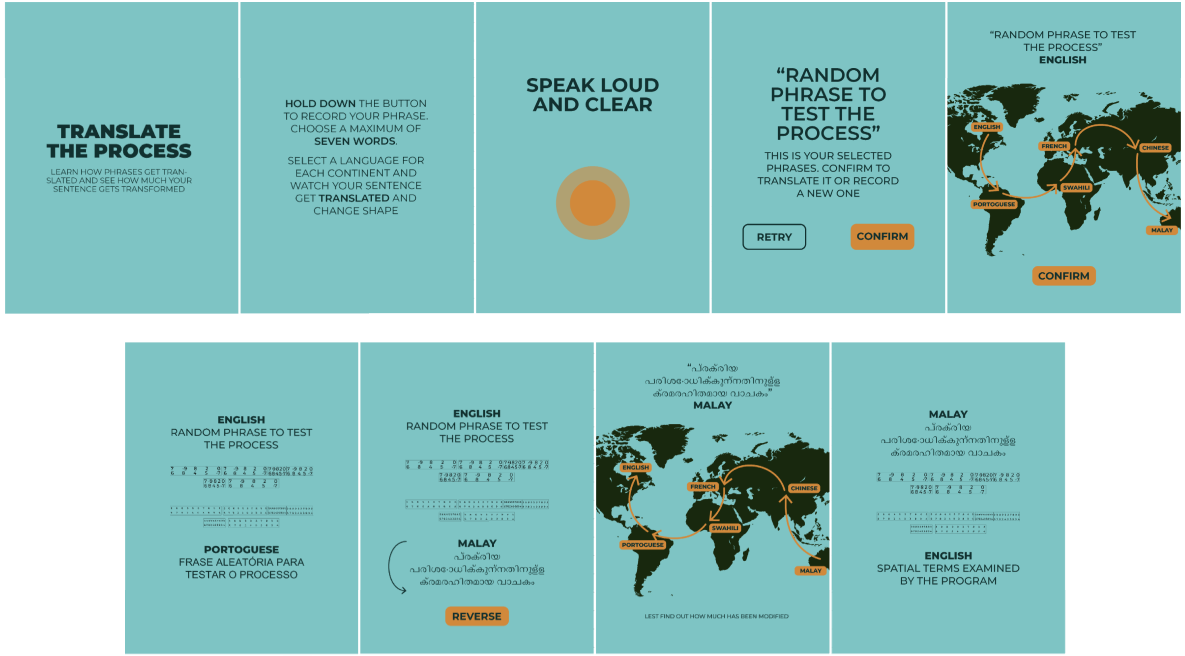
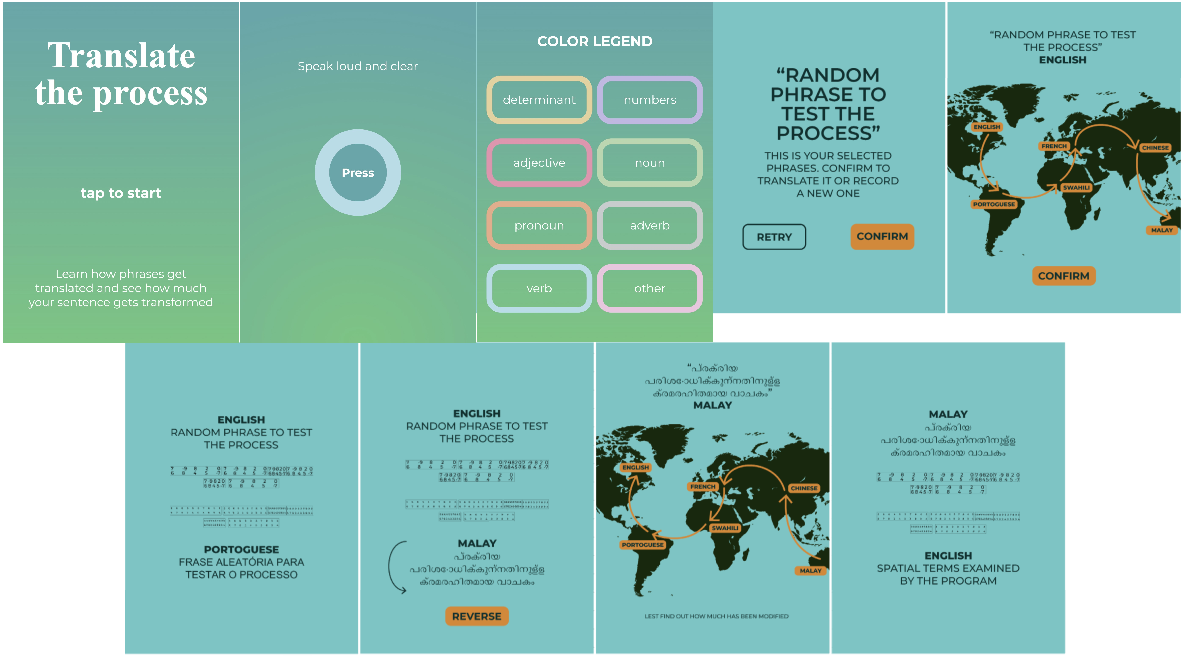
sistemato

diff --git a/README.md b/README.md
@@ -49,6 +49,7 @@ The device will need to have touch functionalities and a microphone of course, b
 
 # STRUCTURE
 
+![scheme](./assets/readme/Scheme.png)
 ![scheme](./assets/readme/struttura.png)
 
 Here is a scheme of the project and its concept rendition.
@@ -146,15 +147,291 @@ This is how the two libraries work together
 
 **ANIMATIONS**
 
-To show the transformation of the original phrase into a vector, we applied a simple sliding animation, using some rectangles with rounded angles
+For the world map animations we needed to keep track of the various selected languages and the order of the continents
 
 ```JavaScript
+
+//This next array will contain all the languages (in order) written in a way that the Translation API can interpret
+
+
+let langs = ["en", "en", "en", "en", "en"],
+  shownTranslations = 1;
+
+//Arrays containing every continent's selection menu coordinates (x and y), a boolean parameter to keep track of the
+//lines already drawn and an int that will be used for the order
+
+
+let csels = [75, 450, false];
+let cselsa = [150, 625, false];
+let cseleu = [325, 425, false];
+let cselaf = [375, 600, false];
+let cselas = [575, 475, false];
+
+//Array that will keep track of the order in which the continents are visited
+
+
+let route = ["sels"];
+
+//Dictionary to keep track of the specific languages for every step of the route
+
+let places = {
+  0: "English",
+  1: "English",
+  2: "English",
+  3: "English",
+  4: "English",
+};
+
+//Dictionary to keep track of the specific languages for every step of the route
+
+let current = [csels[0], csels[1]];
+let next = [csels[0], csels[1]];
+
+//Counter that will be needed to allocate every continent into their spot in the places dictionary
+
+let order = 0;
+
+var languageSketch = function (sketch) {
+  let map;
+
+  sketch.preload = function () {
+//Preloading of the background image
+
+    map = sketch.loadImage("assets/map.png");
+  };
+
+//Creating the select menu for North America (starting point, always English)
+
+
+let sels = sketch.createSelect();
+    sels.parent("map");
+    sels.position(csels[0], csels[1]);
+    sels.option("English");
+
+//Creating the select menu for South America
+
+    let selsa = sketch.createSelect();
+    selsa.parent("map");
+    selsa.position(cselsa[0], cselsa[1]);
+    selsa.option("---"); //The options get added
+    selsa.option("Spanish");
+    selsa.option("Portuguese");
+    selsa.option("French");
+    selsa.option("Dutch");
+    selsa.selected("---"); //The menu will display by default the null option
+
+    selsa.changed(function () { //When the null option gets modified into any of the other options this happens
+      next = [cselsa[0], cselsa[1]]; //The continent gets identified as the final point of the line
+
+      if (cselsa[2] == false) { //If the line hasn't already been drawn this happens
+
+        cselsa[2] = true; //This prevents the line from being drawn again towards this continent in the future
+
+        sketch.append(route, "selsa"); //The continent gets added as the next step in our route
+
+        cselsa[3] = order + 1; //The fouth element of the coordinates array is changed to the spot this continent has in the order of the route (+1 since english is always the first step)
+
+        places[order + 1] = selsa.value(); //The dictionary that keeps track of the language at every step of the route is updated with the one selected
+
+        sketch.mySelect(); //The line gets drawn by the mySelect function (it is separated from the arrow function for debugging purposes)
+
+      } else if (csels[2] == false) { //If the line has already been drawn this happens
+
+        places[cselsa[3]] = selsa.value(); //The dictionary is updated, without relying on the order counter, that could be already at 4
+
+      }
+
+      selsa.disable("---"); //The null option gets disabled to not cause confusion
+
+    });
+
+//Creating the select menu for Europe, Africa and Asia (seleu, selaf and selas) and of course the process is the same for every one of them
+
+    [...]
+
+//Creating the button used to confirm
+
+
+    button = sketch.createButton("Start");
+    button.id("start");
+    button.parent("map");
+    button.position(sketch.width / 2 - button.width / 2, sketch.height - 250);
+    button.mousePressed(function () { //When pressed this happens
+
+      if (order >= 4 && csels[2] == false) { //If the order reached its last number and the final line hasn't been drawn yet
+
+        csels[2] = true; //We make sure the final line doesn't get drawn again
+
+        nextFrame(); //We advance to the next screen
+
+        sketch.confirm(); //The confirm function executes the final part of this section and sets up the second map segment
+      }
+
+//During the last part we hide all the menus but the first and the last
+
+      if (csels[2] == true) {
+        if (route[1] == "selsa" || route[2] == "selsa" || route[3] == "selsa") {
+          selsa.hide();
+        }
+
+        if (route[1] == "seleu" || route[2] == "seleu" || route[3] == "seleu") {
+          seleu.hide();
+        }
+
+        if (route[1] == "selaf" || route[2] == "selaf" || route[3] == "selaf") {
+          selaf.hide();
+        }
+
+        if (route[1] == "selas" || route[2] == "selas" || route[3] == "selas") {
+          selas.hide();
+        }
+      }
+    });
+  };
+  sketch.draw = function () {};
+
+  sketch.mySelect = function () { //If not all menus have been used yet we draw arrows
+
+    if (order < 4) {
+      sketch.arrow();
+    }
+  };
+
+  sketch.arrow = function () {
+
+//We increment the order counter, to prepare for the next step
+
+    order++;
+
+//We create a variable used to create the curve of the lines
+
+    let curve = 50;
+    if (order % 2 == 0) { //The curvature is alternated
+      curve = -50;
+    }
+
+    sketch.push();
+
+//We draw a Bezier curve, that will be our line
+
+    sketch.noFill();
+    sketch.strokeWeight(4);
+    sketch.stroke(255, 255, 255);
+    sketch.drawingContext.setLineDash([5, 10]);
+    sketch.bezier(
+      current[0] + 40,
+      current[1] + 10,
+      sketch.lerp(current[0], next[0], 0.25) + curve,
+      sketch.lerp(current[1], next[1], 0.25) + curve,
+      sketch.lerp(current[0], next[0], 0.75) + curve,
+      sketch.lerp(current[1], next[1], 0.75) + curve,
+      next[0] + 40,
+      next[1] + 10
+    );
+    sketch.pop();
+
+//We identify the last point of the curve as the new starting point
+
+    current = [next[0], next[1]];
+  };
+
+  sketch.confirm = function () { //The last part of this section
+    sketch.clear();
+    sketch.background(map);
+
+//We identify the first menu as our final point
+
+    next = [csels[0], csels[1]];
+
+//We draw a Bezier curve
+
+[...]
+
+//We then translate every language in the places dictionary into the form used by the Translation API
+
+    for (let i = 1; i < 5; i++) {
+      if (places[i] == "Spanish") {
+        langs[i] = "es";
+      } else if (places[i] == "Portuguese") {
+        langs[i] = "pt";
+      } else if (places[i] == "French") {
+        langs[i] = "fr";
+      } else if (places[i] == "Dutch") {
+        langs[i] = "nl";
+      } else if (places[i] == "Italian") {
+        langs[i] = "it";
+      } else if (places[i] == "German") {
+        langs[i] = "de";
+      } else if (places[i] == "Greek") {
+        langs[i] = "el";
+      } else if (places[i] == "Russian") {
+        langs[i] = "ru";
+      } else if (places[i] == "Arabic") {
+        langs[i] = "ar";
+      } else if (places[i] == "Afrikaans") {
+        langs[i] = "af";
+      } else if (places[i] == "Swahili (Latin)") {
+        langs[i] = "sw";
+      } else if (places[i] == "Chinese simpl") {
+        langs[i] = "zh-Hans";
+      } else if (places[i] == "Hindi") {
+        langs[i] = "hi";
+      } else if (places[i] == "Japanese") {
+        langs[i] = "ja";
+      } else if (places[i] == "Indonesian") {
+        langs[i] = "id";
+      } else if (places[i] == "Zulu") {
+        langs[i] = "zu";
+      }
+    }
+  }
 
 ```
 
-For the world map animations, we used a sligtly more complex system, mostly just beacuse of the need of keeping track fo the various selected languages
+To show the transformation of the original phrase into a vector, we applied a simple sliding animation, using some rectangles with rounded angles.
+This next section is all in the draw() function.
 
 ```JavaScript
+
+if (opacity <= 300) {
+      for (let k = 0; k < shapes.length; k++) {
+
+        shapes[k].create(); //We create an instance of the segment of the vector
+
+      }
+      opacity++; //It fades in
+
+    } else if (h < 60) { //A timer that sets the segment to max opacity
+      alpha = 255;
+      for (let l = 0; l < shapes.length; l++) {
+        shapes[l].create(); //The segments change color, according to Rita.js' analysis
+      }
+      h++; //"Timer"
+
+      document.getElementById("analized").style.visibility = "hidden";
+      document.getElementById("comments").innerHTML = "Adding a context to each word";
+
+    } else if (opacity2 <= 300) { //A timer that sets the segment to max color
+      colored = true;
+      alpha = 5;
+
+      setTimeout(function () {
+        for (let n = 0; n < shapes.length; n++) {
+          shapes[n].create(); //The segments increase in size, "absorbing" the words
+        }
+        opacity2++;
+        if (opacity2 > 50 && opacity2 < 200) {
+          alpha = 10;
+        } else if (opacity2 > 200) {
+          alpha = 5;
+        }
+        document.getElementById("comments").innerHTML = "Saving the informations";
+      }, 2000);
+      animationEnded = true;
+    } else if (animationEnded == true) {
+      sketch.showingTranslation(); //The translations in various langages get shown
+      animationEnded = false;
+    }
 
 ```
 
